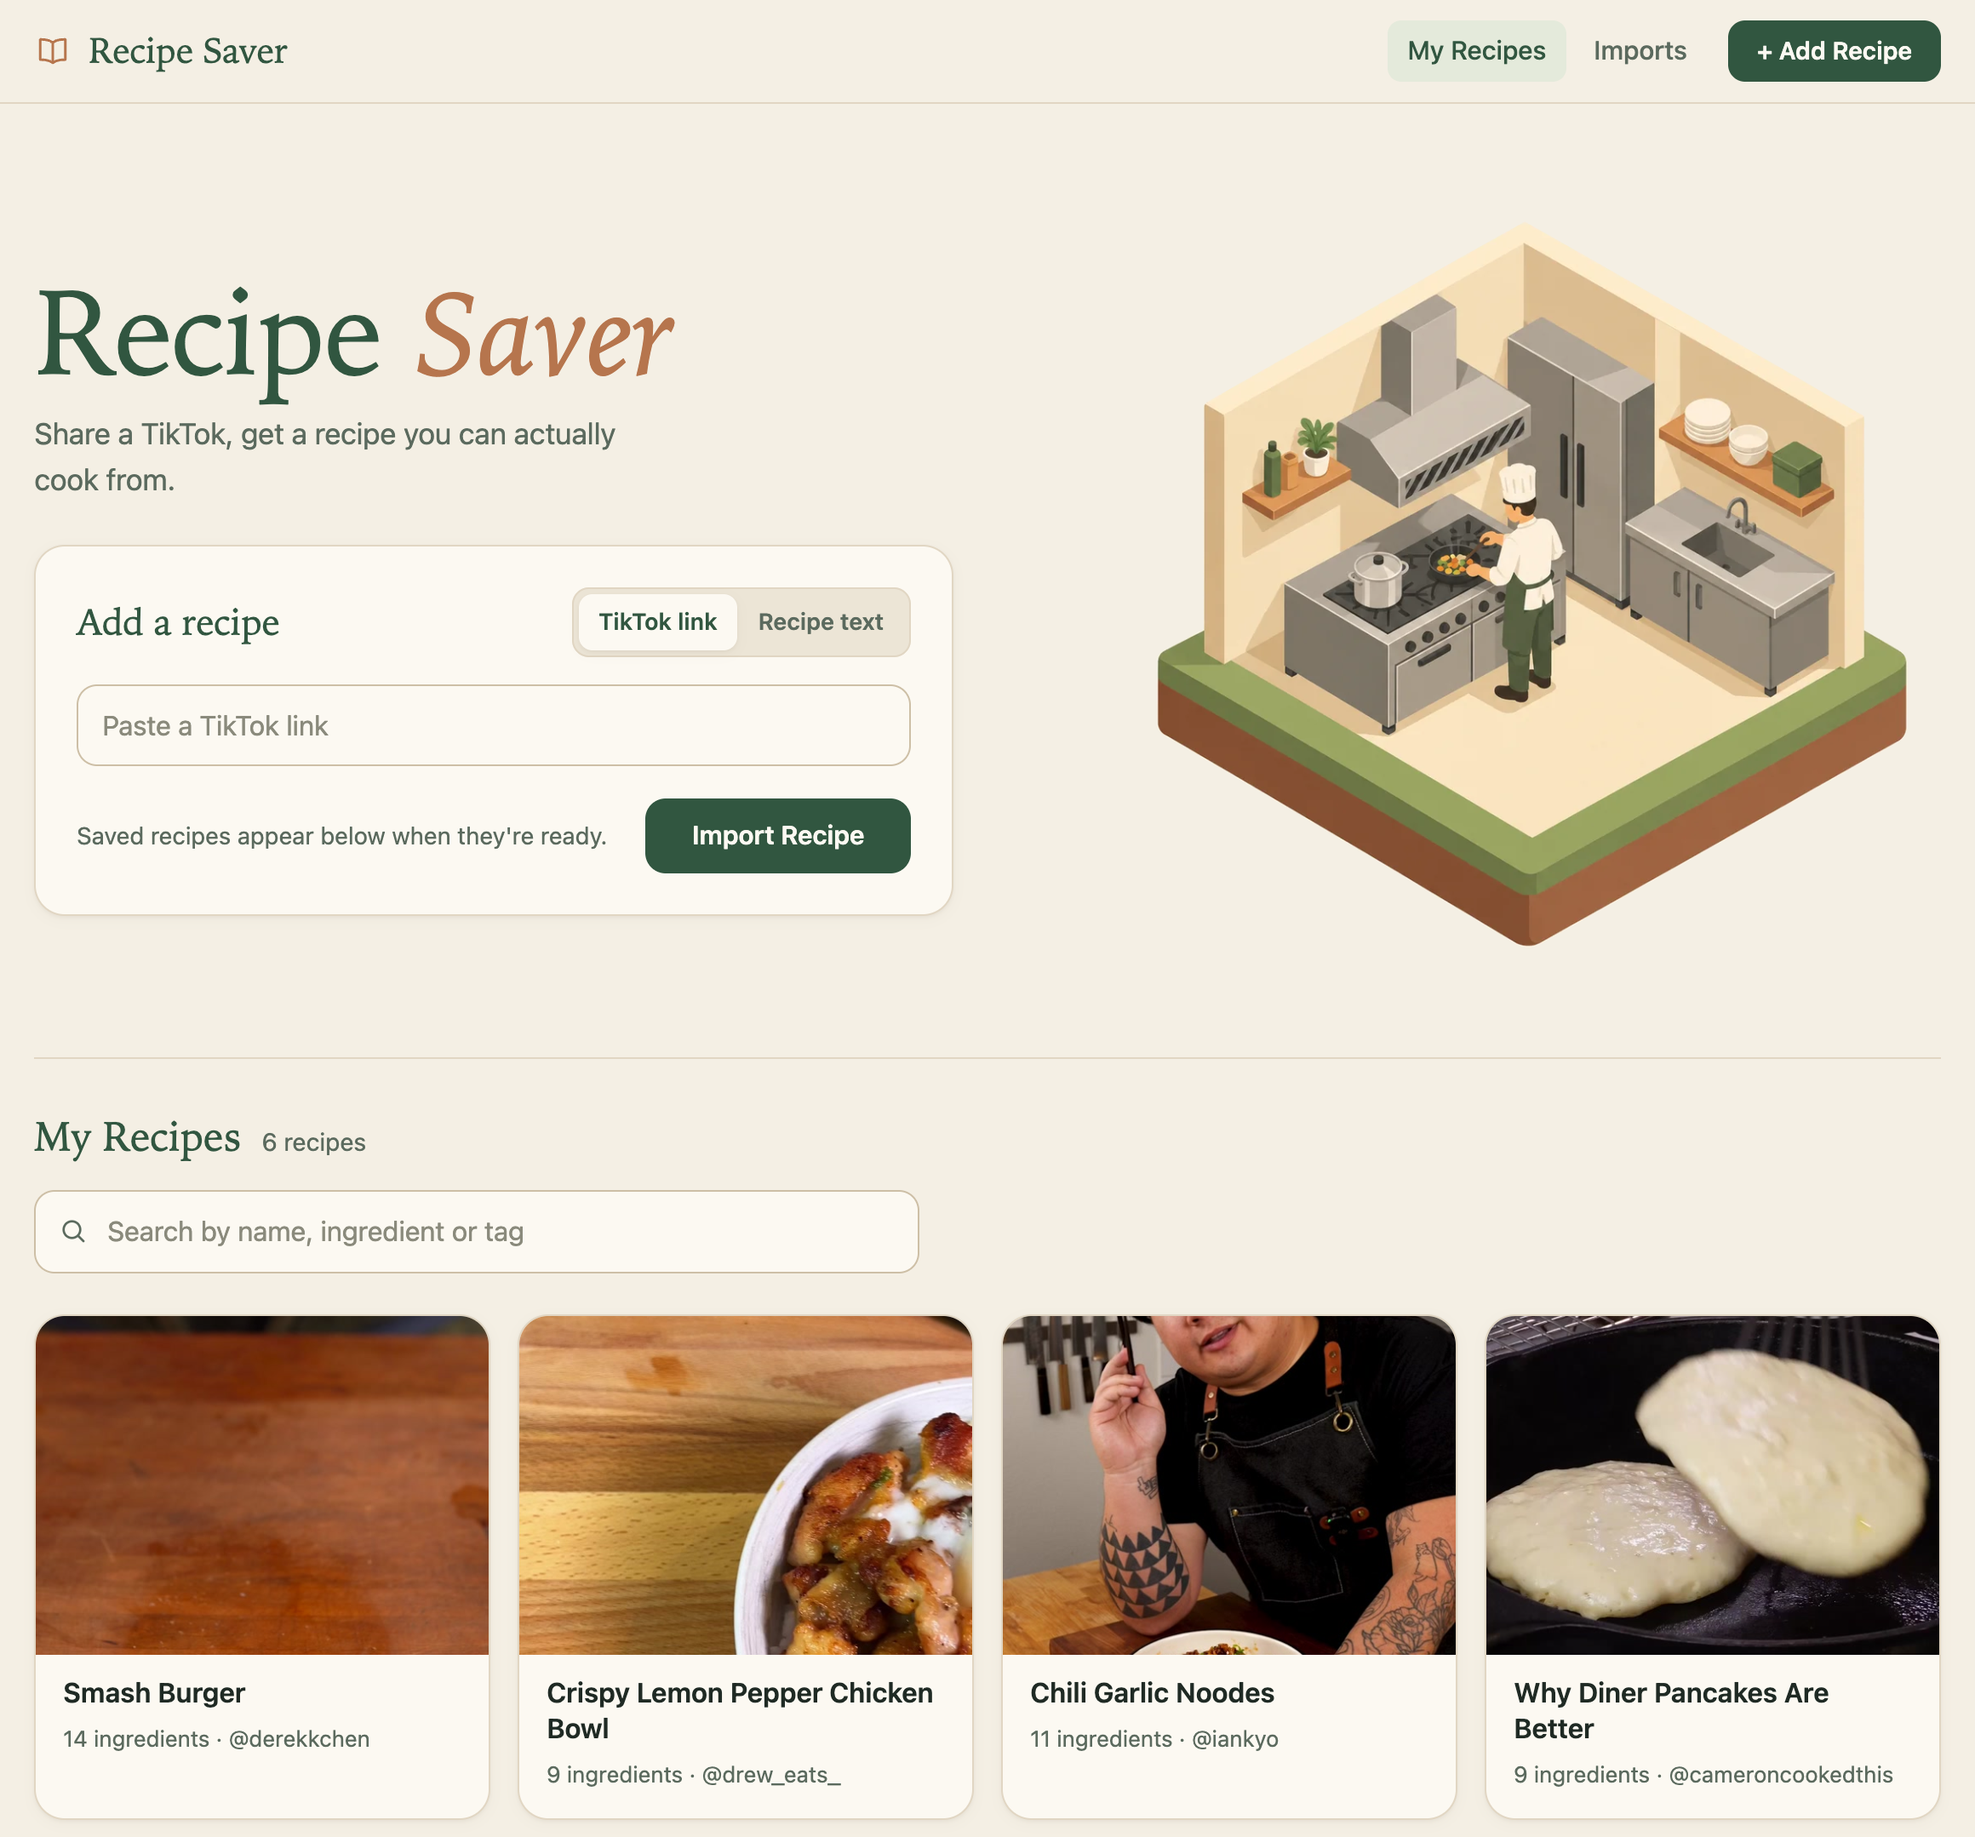
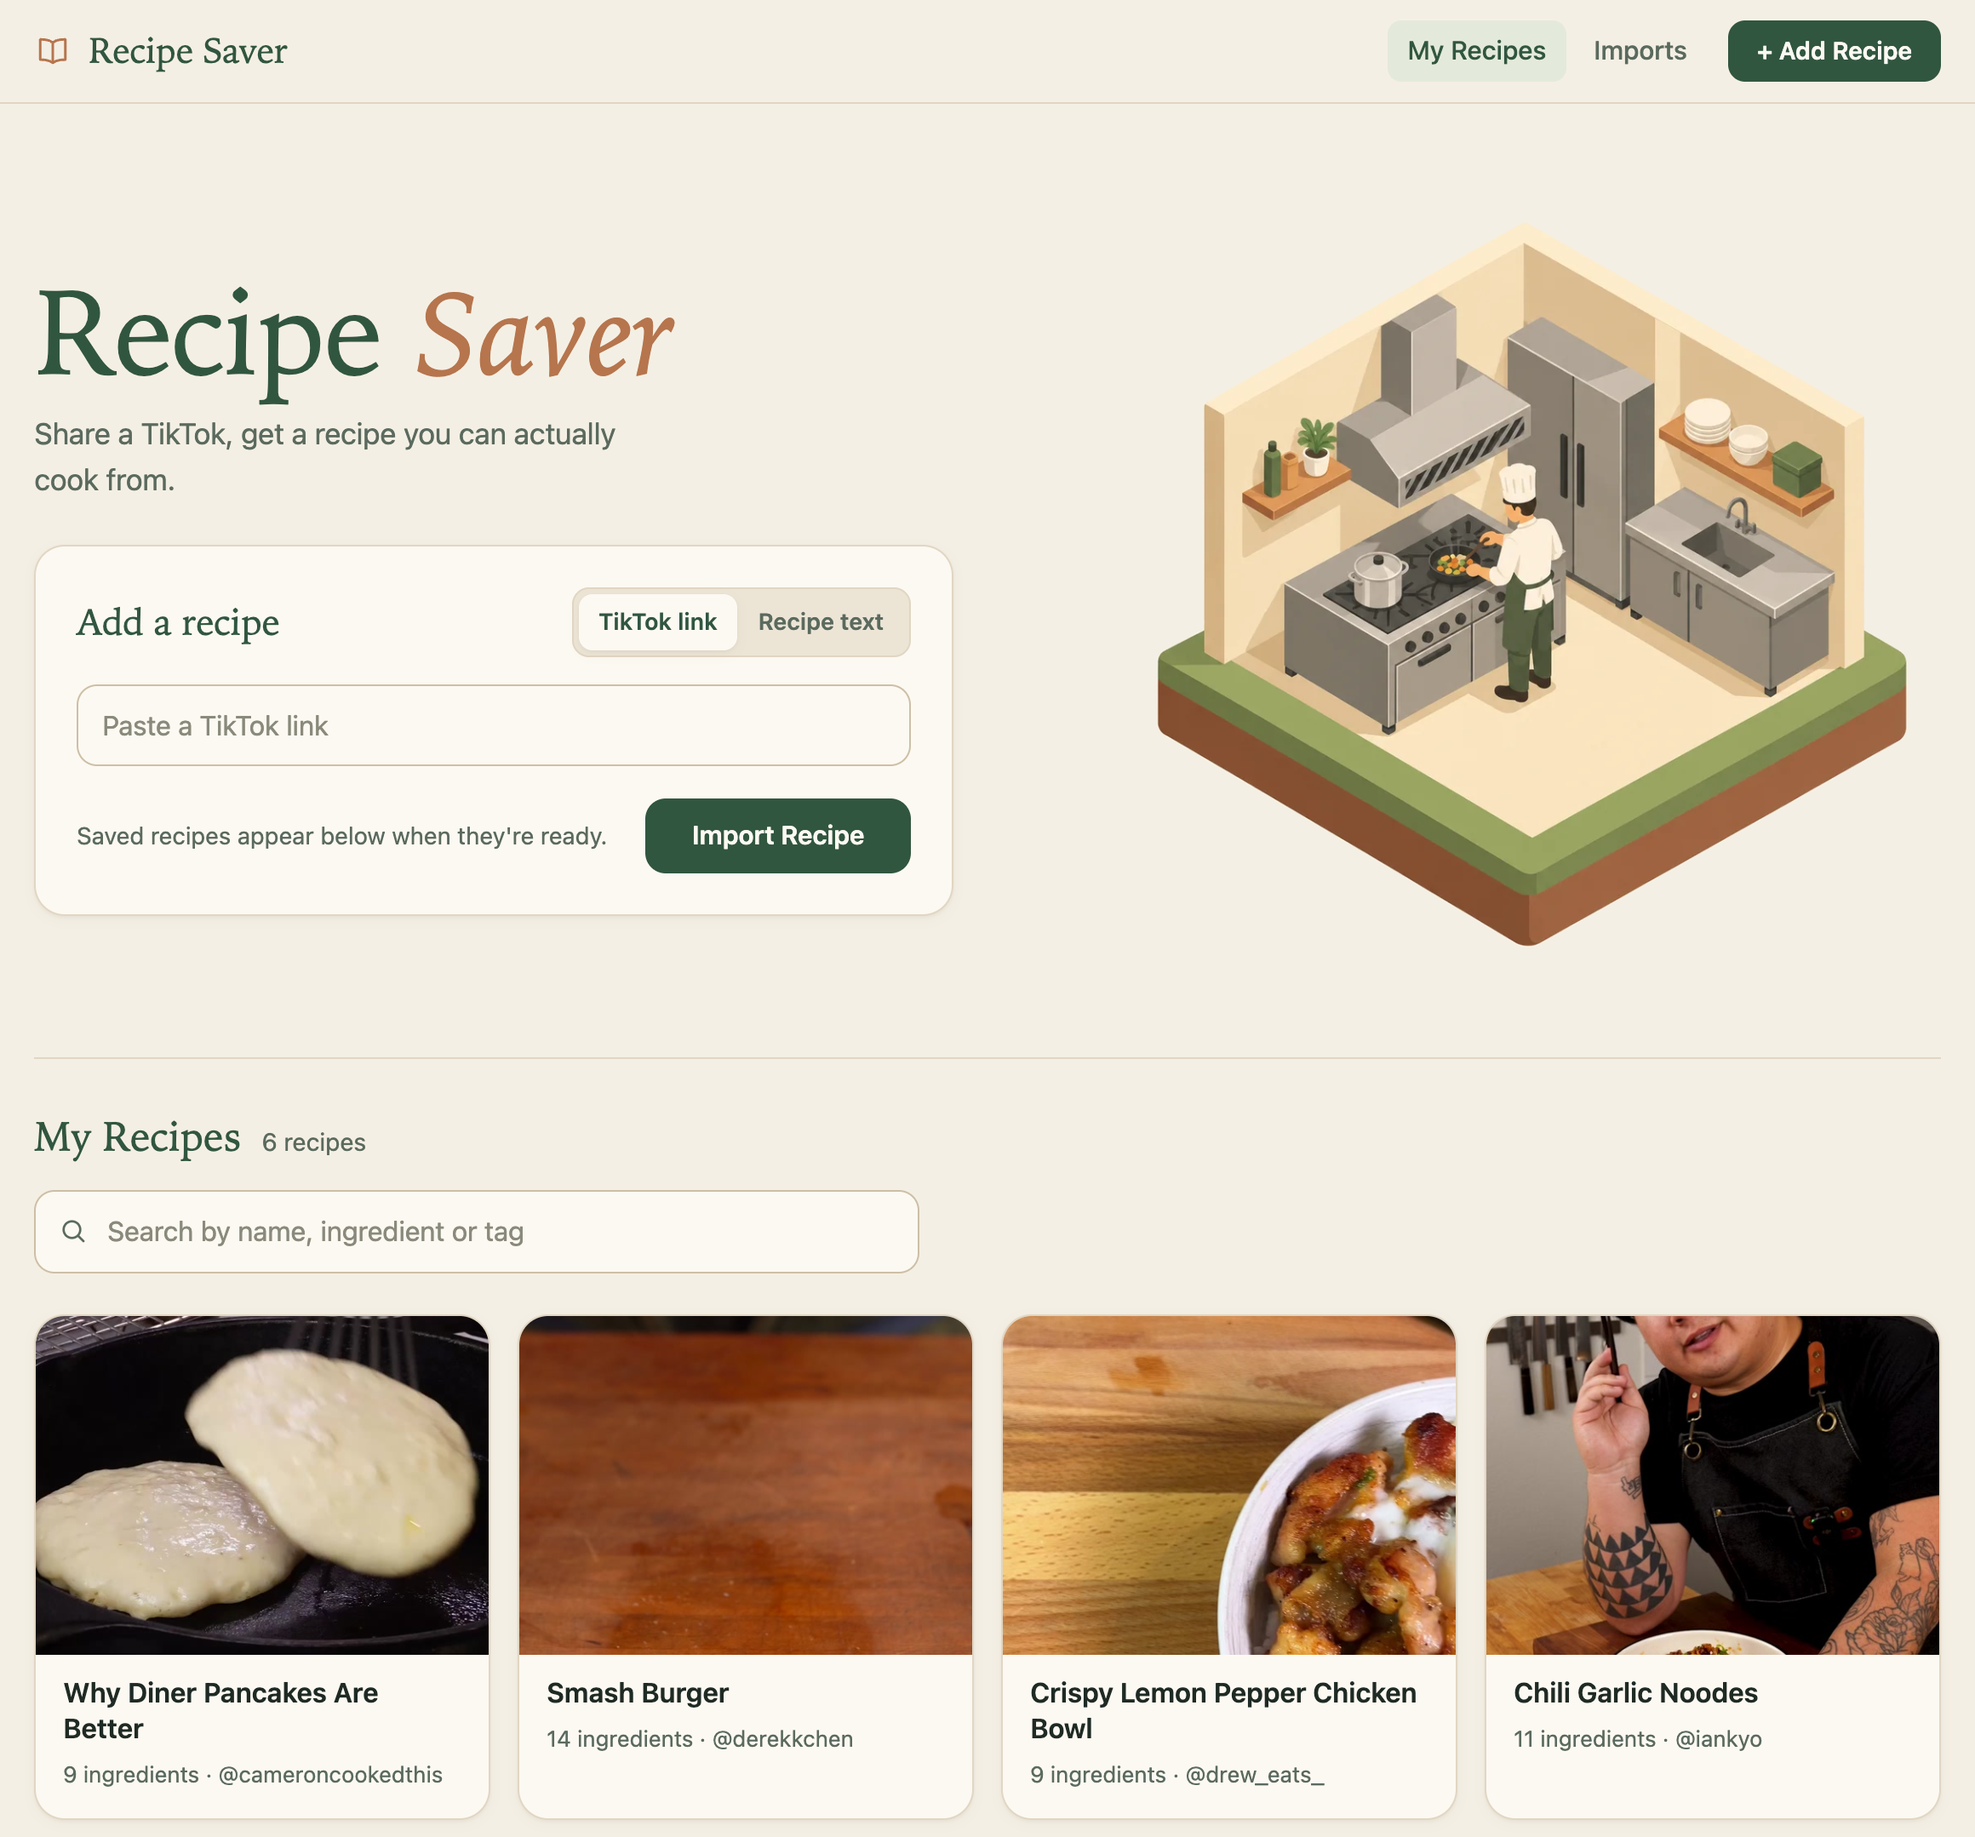
README: feature the pancake recipe in the screenshots

Changed region(s): [[0.0, 0.7141, 0.9931, 0.9935]]

diff --git a/README.md b/README.md
@@ -15,11 +15,11 @@ parser can't. See `docs/PRD.md` for the full spec.
 
 <p align="center">
   <img src="docs/screenshots/recipe.png" width="600"
-       alt="Smash Burger recipe page: ingredients with quantities and numbered steps">
+       alt="Diner pancakes recipe page: ingredients with quantities and numbered steps">
 </p>
 
 The recipe above was imported from
-[a TikTok by @derekkchen](https://www.tiktok.com/@derekkchen/video/7376675072469208362).
+[a TikTok by @cameroncookedthis](https://www.tiktok.com/@cameroncookedthis/video/7431609541676043551).
 
 ## Run it
 
